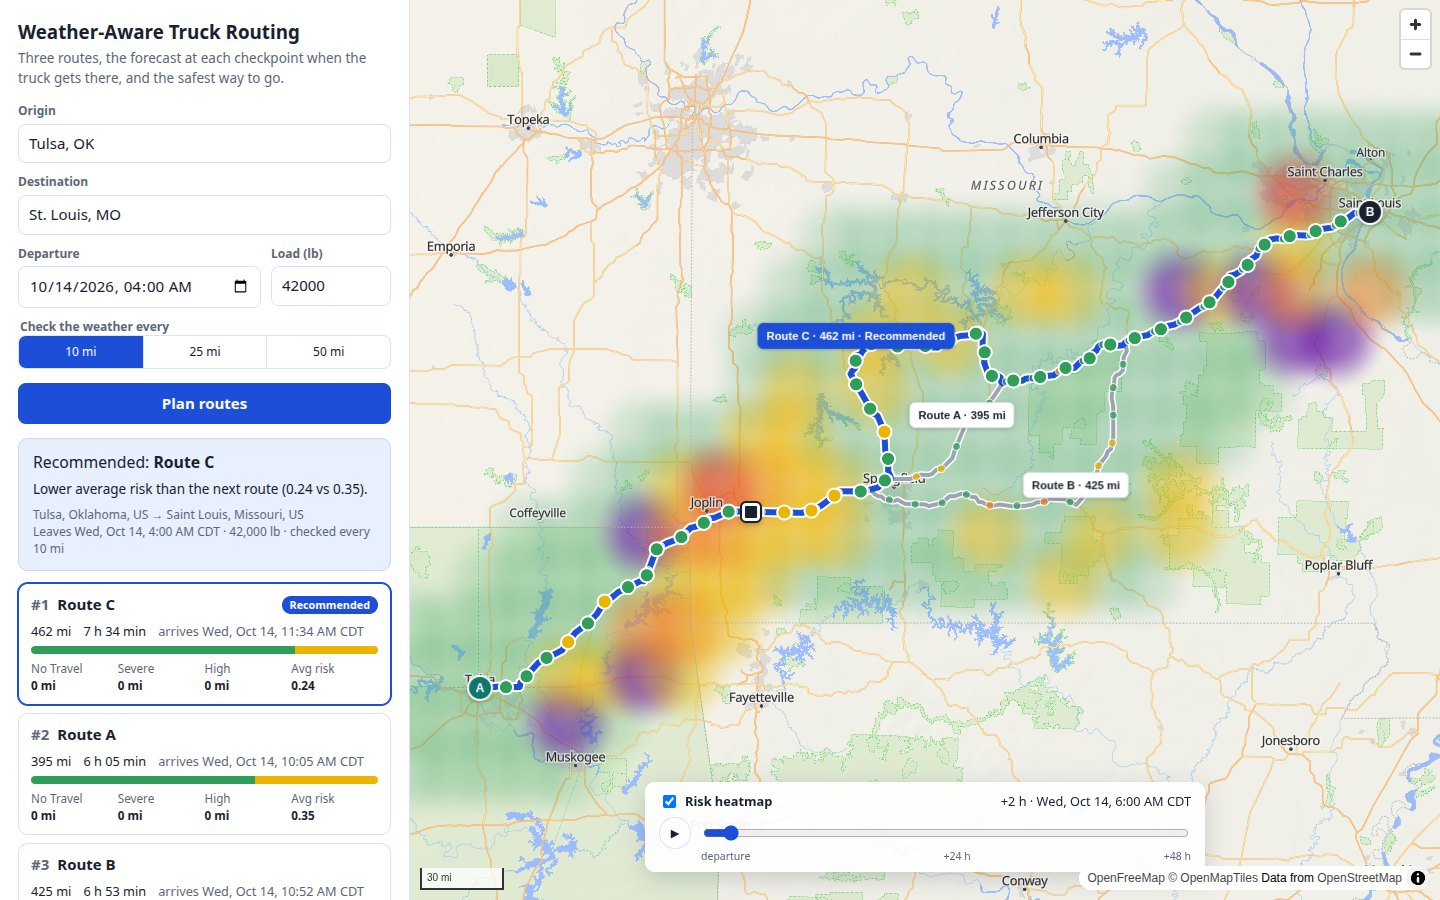
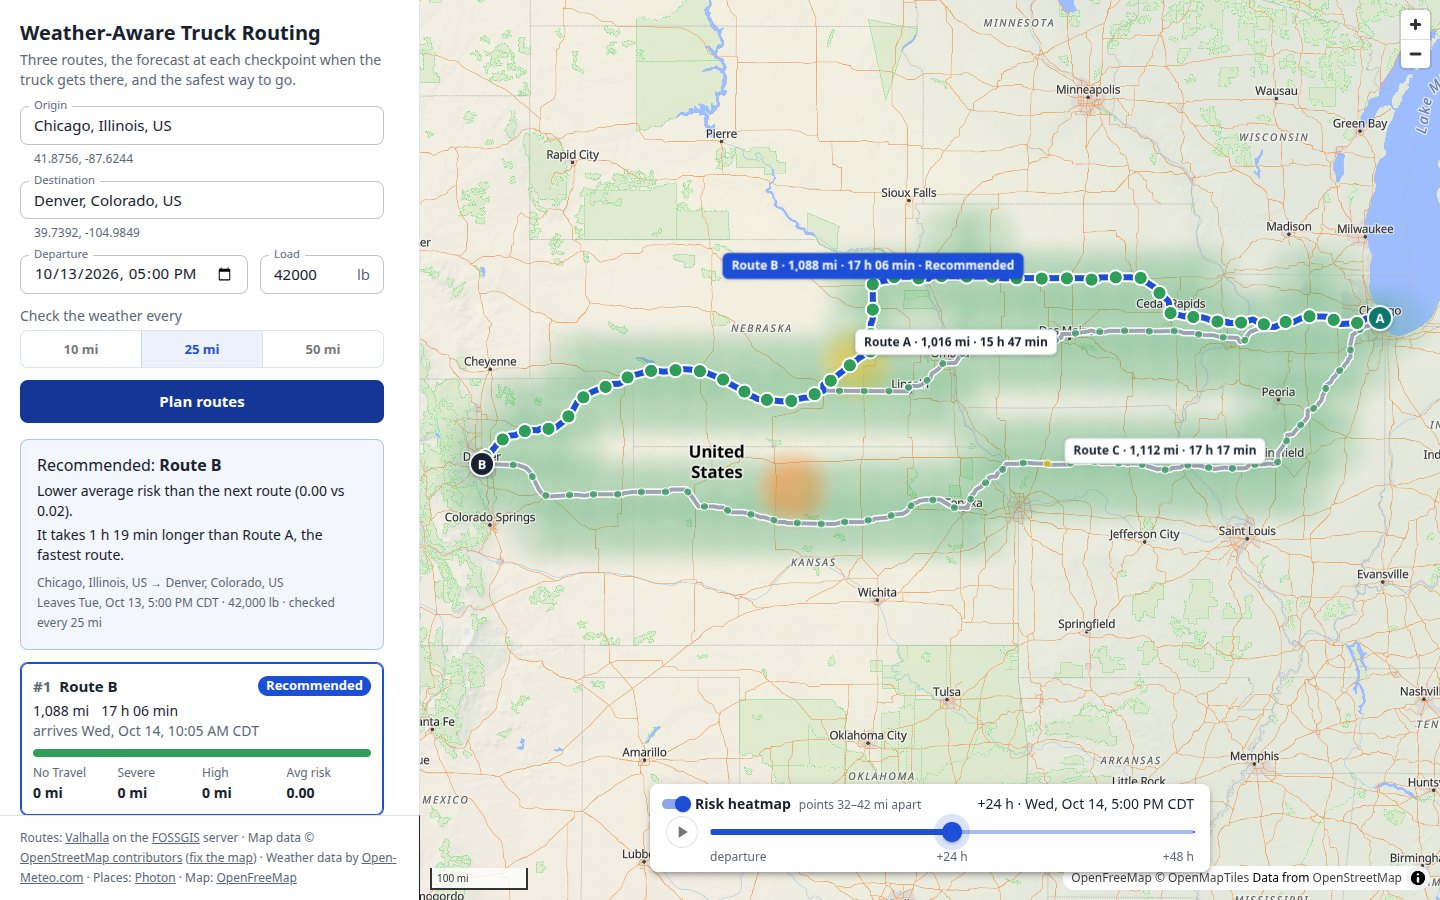
Update the README for the Material UI rebuild and the review
A table of where each requirement in the brief lives and what checks it,
the trade-off line and the hover on the map, the versions actually tested,
the new frontend tests and CI, the dependency audit, the routing retries,
the project layout and a fresh screenshot.

diff --git a/README.md b/README.md
@@ -1,14 +1,16 @@
 # Weather-Aware Truck Routing
 
+[![CI](https://github.com/muhammadsamad99/weather-aware-truck-routing/actions/workflows/ci.yml/badge.svg)](https://github.com/muhammadsamad99/weather-aware-truck-routing/actions/workflows/ci.yml)
+
 Helps a truck driver choose the safest route for a trip. Enter the origin, destination, departure time and
 load. The app finds three routes and checks the forecast at checkpoints every 10, 25 or 50 miles, for the
 hour the truck will be at each one. It rates each checkpoint on the risk table, adjusted for the load, and
 recommends a route with the reason. A heatmap with a 0–48 hour slider shows the weather risk along the
 trip corridor.
 
-React + TypeScript + MapLibre on the front end, Django + Django REST Framework behind it.
+React + TypeScript + Material UI + MapLibre GL on the front end, Django + Django REST Framework behind it.
 
-![Tulsa to St. Louis in rain: three routes, checkpoints coloured by risk, and the corridor heatmap two hours after departure](docs/screenshot.jpg)
+![Chicago to Denver: three routes tagged with distance and driving time, the recommended route with what its extra time buys, checkpoints coloured by risk, and the corridor heatmap 24 hours after departure](docs/screenshot.jpg)
 
 ## Using it
 
@@ -22,12 +24,29 @@ React + TypeScript + MapLibre on the front end, Django + Django REST Framework b
    - No Travel, Severe and High miles;
    - the average risk.
 
+   When the recommended route isn't the fastest, the panel also says how much longer it takes and what that
+   buys.
+
    Click a card, or a route on the map, to select it. The table below the cards lists the selected route's
-   checkpoints with their arrival times, forecast and risk. Click a row to find that checkpoint on the map.
+   checkpoints with their arrival times, forecast and risk. Click a row (or press Enter on it) to find that
+   checkpoint on the map.
 3. **On the map:**
-   - Every checkpoint is coloured by its risk; click one for the details.
+   - Each route has a tag with its distance and driving time.
+   - Every checkpoint is coloured by its risk; hover one for its arrival time, click it for the details.
    - The slider moves the heatmap through the next 48 hours from departure; ▶ plays it.
    - The dark square marks where the truck is, on the selected route, at the slider's hour.
+
+## How the brief is covered
+
+| The brief asks for | Where it is | Checked by |
+|---|---|---|
+| Origin, destination, departure date/time, load | `TripForm`, `PlaceInput` → `POST /api/plan`, validated in `planner/serializers.py` | `test_service_and_api.py`, `App.test.tsx` |
+| 3 route options from a routing API | `planner/providers/valhalla.py` | `test_valhalla.py` |
+| Weather every 10/25/50 mi at the truck's ETA | `planner/checkpoints.py`, `planner/weather.py` | `test_checkpoints.py`, `test_weather.py` |
+| The risk table and load rules | `planner/risk.py` | `test_risk.py`, `test_legend.py` |
+| A recommendation that balances risk and time, in the brief's order | `planner/recommend.py` (the order, the reason, the trade-off line) | `test_recommend.py`, `test_service_and_api.py` |
+| Routes, checkpoints, risk levels, ETAs and route summaries on a map | `MapView.tsx` (route lines and tags, coloured checkpoints, hover and popups), `RouteCards.tsx` | `App.test.tsx` for the panel; the drawn map was checked in headless Chrome during development (not in CI) |
+| A heatmap along the corridor with a 0–48 h slider | `planner/heatmap.py`, `service._heatmap`, `HeatmapControl.tsx` | `test_heatmap.py`, `test_service_and_api.py` |
 
 ## How a plan is made
 
@@ -142,7 +161,7 @@ Every service is free and needs no API key.
 
 | Service | Used for | Limits |
 |---|---|---|
-| [Valhalla](https://valhalla.github.io/valhalla/) public server, run by [FOSSGIS](https://www.fossgis.de/) | Truck routes | The [usage policy](https://routing.openstreetmap.de/about.html) allows at most one request per second, with attribution and a "fix the map" link (both in the panel footer). The whole service spaces its requests a second apart, and routes are cached. One request may not span more than 1,500 km, so longer trips are routed in legs and joined. The server is sometimes busy, so a busy answer is retried once. |
+| [Valhalla](https://valhalla.github.io/valhalla/) public server, run by [FOSSGIS](https://www.fossgis.de/) | Truck routes | The [usage policy](https://routing.openstreetmap.de/about.html) allows at most one request per second, with attribution and a "fix the map" link (both in the panel footer). The whole service spaces its requests a second apart, and routes are cached. One request may not span more than 1,500 km, so longer trips are routed in legs and joined. The server is sometimes busy, so a busy or "overloaded" answer is tried twice more, 1.5 s and then 3 s later. |
 | [Open-Meteo](https://open-meteo.com) | Hourly forecasts | Free for non-commercial use: 600 calls a minute and 10,000 a day. The terms don't say how a request for many locations counts, but each location seems to count as a call: one coast-to-coast plan of about 1,000 locations hit the per-minute limit on its own. So a plan asks for at most 450 (see above), and the whole service asks for at most 560 in any minute: a plan that would go over waits until the minute frees up (at most a minute). Open-Meteo's own limit message can still appear, for example if the host shares its outgoing address with other apps that use Open-Meteo. Forecasts are cached for an hour per cell. |
 | [Photon](https://photon.komoot.io) | Place search | Fair use. Results are cached for a day. |
 | [OpenFreeMap](https://openfreemap.org) | Base map | None stated. If the base map style cannot load, the routes and weather still draw on a plain background. |
@@ -158,7 +177,8 @@ miles and seconds. Implement one next to `valhalla.py` and select it in `service
 
 ## Running it locally
 
-You need Python 3.11+ and Node 20+.
+You need Python 3.11 or newer and a current Node LTS. It is tested with Python 3.11.9 and Node 24.21.0, the
+versions `render.yaml` and CI pin.
 
 ```bash
 python3 -m venv .venv && source .venv/bin/activate
@@ -184,10 +204,12 @@ cd backend && pytest && ruff check .
 cd frontend && npm run lint && npx tsc -b && npm test
 ```
 
-The backend tests (125) cover:
+CI runs all of these on every push and pull request (`.github/workflows/ci.yml`).
+
+The backend tests (131) cover:
 
 - **Risk table:** every edge and every load rule.
-- **Ranking:** each step of the recommendation order, and its reason messages.
+- **Ranking:** each step of the recommendation order, its reason messages and the trade-off line.
 - **Checkpoints:** spacing and ETAs.
 - **Polyline decoding and trip parsing:** against a recorded Valhalla response.
 - **Route candidates:** alternates, detours, near-duplicates, spurs, and long trips split into legs.
@@ -202,9 +224,15 @@ The backend tests (125) cover:
 - **The API:** with routing, weather and places replaced by fakes. Any request a test makes to a host other
   than this machine fails the test.
 
-The frontend tests (8, Vitest) cover the app without WebGL (the form and every result still work, and the
-map area says why the map is missing), a map that breaks for any other reason, and the truck's position at
-an hour.
+The frontend tests (13, Vitest and Testing Library) cover:
+
+- **The place boxes:** a search only from three letters and once per pause in typing, a picked place kept
+  until typed over, and picked places sent as coordinates.
+- **A failed re-plan:** keeps the last results on screen and says so.
+- **The map's failure paths:** the app without WebGL (the form and every result still work, and the map area
+  says why the map is missing), a map that breaks for another reason, and a lost graphics context.
+- **Risk chips:** every label reads at 4.5:1 or better on its colour.
+- **The truck's position** at an hour.
 
 ## Deploying
 
@@ -226,6 +254,8 @@ takes about a minute.
   Content-Security-Policy), and other sites can't frame it.
 - Answers from the outside services are read within a time and size limit, so a slow or broken service
   can't hold the server.
+- Dependencies were audited on 2026-10-14: `npm audit` reported no vulnerabilities, and `pip-audit` none in
+  `backend/requirements*.txt`. CI doesn't run these audits, so re-run them before a release.
 
 ## Project layout
 
@@ -244,11 +274,18 @@ backend/
     views.py, serializers.py
     tests/
 frontend/src/
-  App.tsx                 form state and layout
-  components/             TripForm, PlaceInput, MapView, RouteCards, CheckpointTable, HeatmapControl, Legend
+  App.tsx                 form state and the page layout
+  theme.ts                the Material UI theme; levels.ts holds the risk colours
+  components/
+    TripForm, PlaceInput  the trip form and the place search
+    Recommendation, RouteCards, CheckpointTable, Legend
+    MapPane, MapView      the map (MapLibre, loaded separately) and its heatmap state
+    HeatmapControl        the 0-48 h slider
+    MapFallback           what shows when the map can't be drawn
   api.ts, types.ts        the API and its response shapes
   geometry.ts             the truck's position at an hour, map bounds
 render.yaml, build.sh     deployment
+.github/workflows/ci.yml  tests, lint, type check and build on every push
 ```
 
 ## Known limitations
